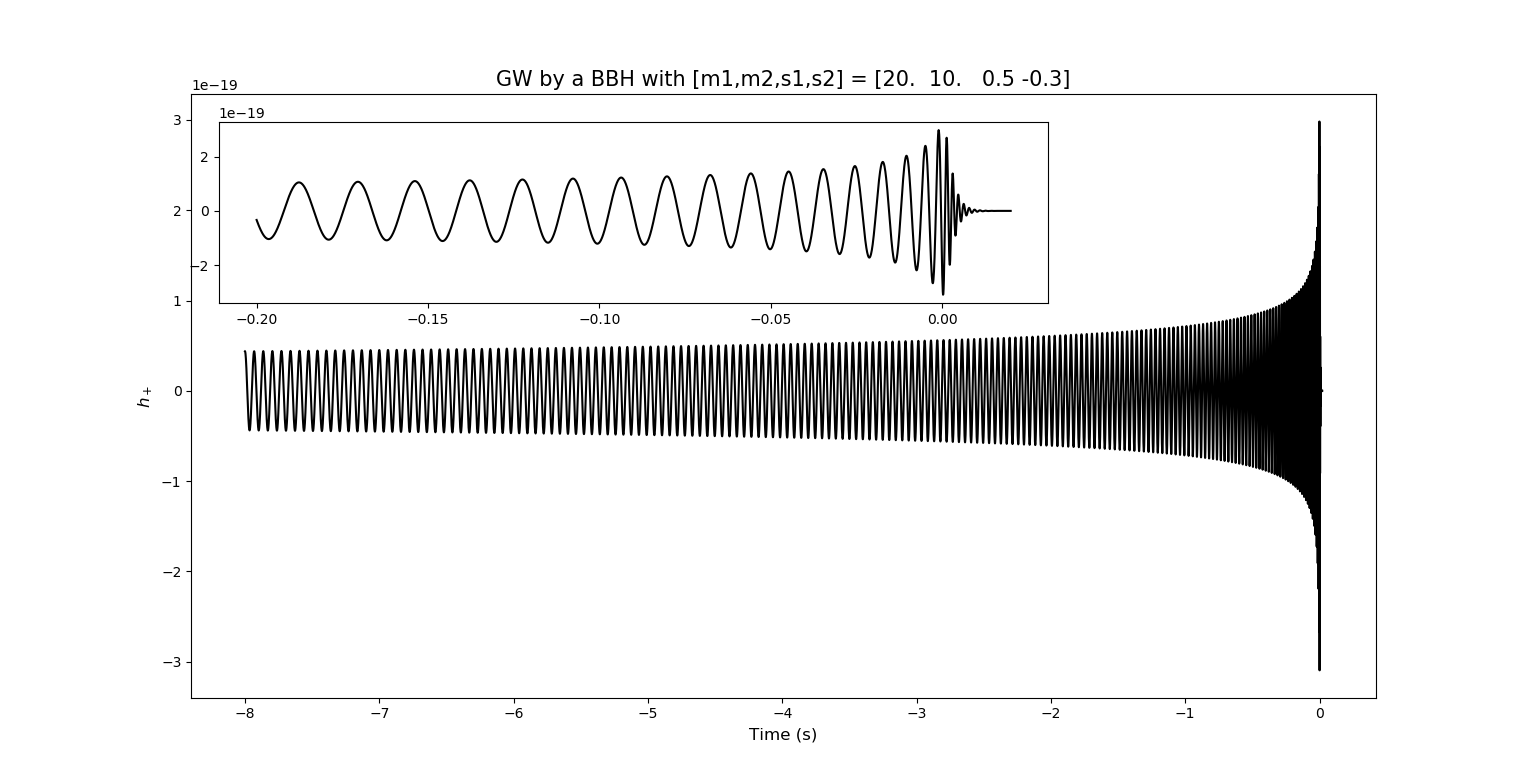
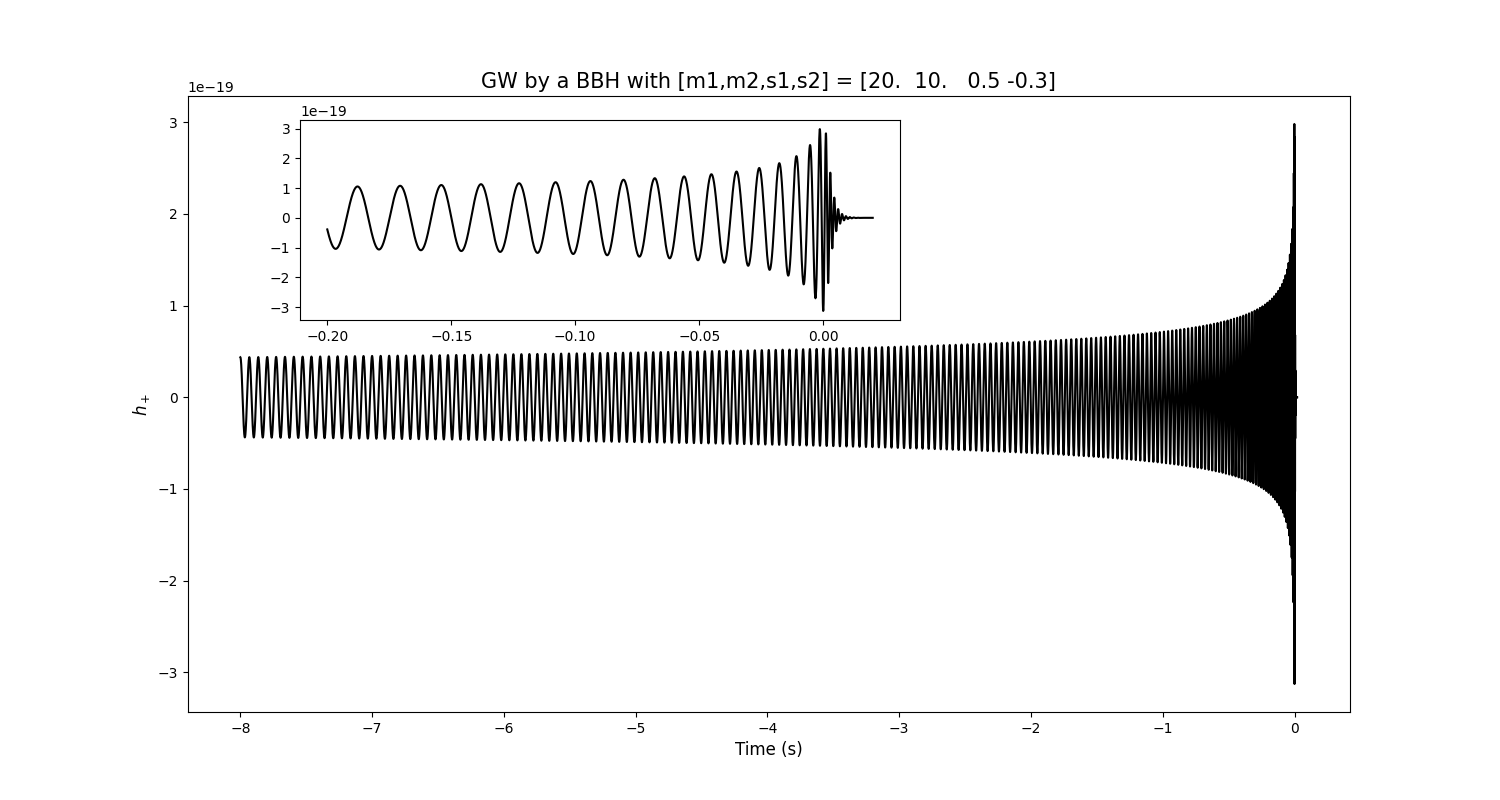
Update READMEs

diff --git a/examples/generate_WF.py b/examples/generate_WF.py
@@ -1,0 +1,20 @@
+import mlgw
+import numpy as np
+import matplotlib.pyplot as plt
+
+	#generating the wave
+gen = mlgw.GW_generator() #creating an istance of the generator (using default model)
+theta = np.array([20,10,0.5,-0.3]) #list of parameters to be given to generator [m1,m2,s1,s2]
+times = np.linspace(-8,0.02, 100000) #time grid: peak of 22 mode at t=0
+modes = [(2,2), (3,3), (4,4), (5,5)]
+h_p, h_c = gen.get_WF(theta, times, modes) #returns amplitude and phase of the wave
+
+	#plotting the wave
+fig = plt.figure(figsize=(15,8))
+plt.title("GW by a BBH with [m1,m2,s1,s2] = "+str(theta), fontsize = 15)
+plt.plot(times, h_p, c='k') #plot the plus polarization
+plt.xlabel("Time (s)", fontsize = 12)
+plt.ylabel(r"$h_+$", fontsize = 12)
+axins = fig.add_axes([0.2, 0.6, 0.4, 0.25])
+axins.plot(times[times >= -0.2], h_p[times >= -0.2], c='k')
+plt.show()

diff --git a/README.rst b/README.rst
@@ -16,30 +16,29 @@ MACHINE LEARNING MODEL FOR THE GRAVITATIONAL WAVES GENERATED BY BLACK-HOLE BINAR
 
 ``mlgw`` (Machine Learning Gravitational Waves) is a useful tool to quickly generate a GW waveform for a BBH coalescence. It is part of a Master thesis work at University of Pisa (Italy) under supervision of prof. Walter Del Pozzo.
 It implements a ML model which is able to reproduce waveforms of GWs generated by state-of-the-art models, with an aribitrary number of modes. It is quicker than standard methods and it has the same degree of accuracy.
-The older version of the model (which includes only the dominant 22 mode) is presented in this `paper <https://arxiv.org/abs/2011.01958>`_.
+The older version of the model (which includes only the dominant 22 mode) is presented in this `paper <https://arxiv.org/abs/2011.01958>`_. New latest version (v 3.0) is described in this other `paper <https://arxiv.org/abs/2402.06587>`_.
 
 To generate (and plot) a wave:
 ::
 
-	import mlgw.GW_generator as generator
+	import mlgw
 	import numpy as np
 	import matplotlib.pyplot as plt
-	from mpl_toolkits.axes_grid.inset_locator import (inset_axes, InsetPosition,mark_inset)
 
-	#generating the wave
-	gen = generator.GW_generator() #creating an istance of the generator (using default model)
+		#generating the wave
+	gen = mlgw.GW_generator() #creating an istance of the generator (using default model)
 	theta = np.array([20,10,0.5,-0.3]) #list of parameters to be given to generator [m1,m2,s1,s2]
 	times = np.linspace(-8,0.02, 100000) #time grid: peak of 22 mode at t=0
 	modes = [(2,2), (3,3), (4,4), (5,5)]
 	h_p, h_c = gen.get_WF(theta, times, modes) #returns amplitude and phase of the wave
 
-	#plotting the wave
-	plt.figure(figsize=(15,8))
+		#plotting the wave
+	fig = plt.figure(figsize=(15,8))
 	plt.title("GW by a BBH with [m1,m2,s1,s2] = "+str(theta), fontsize = 15)
 	plt.plot(times, h_p, c='k') #plot the plus polarization
 	plt.xlabel("Time (s)", fontsize = 12)
 	plt.ylabel(r"$h_+$", fontsize = 12)
-	axins = inset_axes(plt.gca(), width="70%", height="30%", loc=2, borderpad = 2.)
+	axins = fig.add_axes([0.2, 0.6, 0.4, 0.25])
 	axins.plot(times[times >= -0.2], h_p[times >= -0.2], c='k')
 	plt.show()
 
@@ -59,7 +58,7 @@ A PCA model is used to reduce dimensionality, through a linear transformation, o
 A Mixture of Experts model (MoE) is useful to map the orbital parameters of the black holes to the reduced representation of the wave. A prediction of MoE is a linear combination of regression models (the experts), weighted by the output of a gating function which decides which expert to use. The orbital parameters considered are mass ratio ``q=m1/m2`` and the two BHs z-component spins ``s1`` and ``s2``; the total mass ``m1+m2`` is a scale factor and the dependence on it must not be fitted.
 The experts performs a polynomial regression (using data augmentation in a basis function expansion). The terms in the polynomial are specified at training time.
 
-A complete model for a mode includes two PCA models for both phase and amplitude of the wave and a MoE model for each of the PC considered. The expert takes the form of a basis function regression and one can specify the features they want to use for their regression in the training and test data.
+A complete model for a mode includes two PCA models for both phase and amplitude of the wave and a neural network model for each of the PC considered. Optionally, a mixture of experts regression can be used (not advised due to its limited accuracy).
 
 A dataset of GWs must be created to fit the PCA model. It holds waves in time domain, generated in a fixed reduced grid ``t' = t/M_tot`` where M_tot is the total mass of the BBH.
 Each mode is time aligned sucht that the peak of the 22 mode is at ``t = 0``.
@@ -76,9 +75,10 @@ where m_i and s_i are BH masses and spins, d_L the luminosity distance from the 
 Package ``mlgw`` consists in five modules.
 
 * **GW_generator**: the module holds class ``mode_generator`` which builds up all the components for a fit for a single mode (i.e. PCA + regressions for each PC). Class ``GW_generator`` collects many istances of ``mode_generator`` and sum them together including the dependence on spherical harmonics.
-* **EM_MoE**: holds an implementation of a MoE model as well as the softmax classifier required for it
+* **NN_model**: utilities to instantiate, train and evaluate the NN model
 * **ML_routines**: holds an implementation of the PCA model as well a GDA classifier and a routine to do data augmentation
 * **GW_helper**: provides some routines to generate a dataset and to evaluate the closeness between waves. This is useful to assess model ability to reproduce original waves
+* **EM_MoE**: holds an implementation of a MoE model as well as the softmax classifier required for it (for the older versions of the package)
 * **fit_model**: provides some routines useful to fit the MoE + PCA model.
 
 Class ``GW_generator`` provides method ``get_WF`` to return the plus and cross polarization of the waveform. The orbital parameters must be specified. It accepts N data as ``(N,D) np.array``. The D features must have one of the following layout:
@@ -108,15 +108,16 @@ It requires ``numpy`` and ``scipy`` all available to PyPI.
 
 A number of tutorials are available to the interested user.
 
-* `generate_WF.py <https://raw.githubusercontent.com/stefanoschmidt1995/MLGW/master/mlgw_v2/generate_WF.py>`_: to generate the WF and using the model in its basic features.
-* `test_HM.py <https://raw.githubusercontent.com/stefanoschmidt1995/MLGW/master/mlgw_v2/test_HM.py>`_: to test the accuracy of the model. It requires a local installation of EOB model `TEOBResumS <https://arxiv.org/abs/1806.01772>`_ and it compares the ``mlgw`` results with those of ``TEOBResumS``.
-* `play_WF.py <https://raw.githubusercontent.com/stefanoschmidt1995/MLGW/master/mlgw_v2/play_WF.py>`_: an interactive plot to plot how a WF changes when the the masses, spins and geometrical variables change.
+* `generate_WF.py <https://raw.githubusercontent.com/stefanoschmidt1995/MLGW/master/examples/generate_WF.py>`_: to generate the WF and using the model in its basic features.
+* `play_WF.py <https://raw.githubusercontent.com/stefanoschmidt1995/MLGW/master/examples/play_WF.py>`_: an interactive plot to plot how a WF changes when the the masses, spins and geometrical variables change.
 
 A number of pre-fitted model are realeased together with the model. The available models can be listed with ``mlgw.GW_generator.list_models()``.
-However the user is welcome to fit their own model, using the module ``mlgw.fit_model``. To build a model, two steps are required:
+However the user is welcome to fit their own model, using the module ``mlgw.fit_model``. To build a model, several executables are available:
 
-* **Generating a dataset of WFs**: in this part a datset of WFs is created for each of the (l,m) mode to be included. The user here shall choose the range of orbital parameters to include within the dataset as well as the length in time of the WF. See `generate_dataset.py <https://raw.githubusercontent.com/stefanoschmidt1995/MLGW/master/mlgw_v2/generate_dataset.py>`_ for a practical guide on how to do it.
-* **Fitting the model on the dataset**: in this part, for each mode, a PCA model and a MoE model are fitted with the available data. Once the various ML models are properly gathered together, ``mlgw`` is raeady to be used. See `do_the_fit.py <https://raw.githubusercontent.com/stefanoschmidt1995/MLGW/master/mlgw_v2/do_the_fit.py>`_ for more information.
+* ``mlgw_generate_dataset``: to generate a dataset of waveforms
+* ``mlgw_fit_NN``: to train the neural network
+* ``mlgw_tune_NN``: to tune the neural network model and find the best architecture
+* ``mlgw_write_training_dag``: (very technical) helper to write a condor DAG file to train an ensemble of neural networks
 	
 The tutorials above are intended only to present a basic usage.
 For more advanced use or for more information, please refer to the code documentation: ::

diff --git a/ReadME.md b/ReadME.md
@@ -7,7 +7,7 @@ You can install the package with
 The model outputs the waveform when given the two BHs masses and spins. It implements also the dependence of the waveform on the spherical harmonics.
 
 Version 1 outputs only the 22 dominant mode. The model is presented in this [paper](https://journals.aps.org/prd/abstract/10.1103/PhysRevD.103.043020) (also online as [arXiv:2011.01958](https://arxiv.org/abs/2011.01958) ), where we present its details, we assess its accuracy and we employ it for analysing the whole GWTC-1, the first catalog of GW transients.
-Version 2 and 3 are suited to deal with an arbitrary numbers of modes and at the same time they keeps full compatibility with the previous version interface. Version 2 make use of the usual MoE regression, while version 3 implements a neural network regression.
+Version 2 and 3 are suited to deal with an arbitrary numbers of modes and at the same time they keeps full compatibility with the previous version interface. Version 2 make use of the usual MoE regression, while version 3 implements a neural network regression. Version 3 is presented in this [paper](https://arxiv.org/abs/2402.06587).
 
 To generate a WF:
 ```Python
@@ -135,7 +135,7 @@ and you are good to go!
 
 Two papers describing the methods and different versions of the model have been published:
 - S. Schmidt et al., Machine learning gravitational waves from binary black hole mergers ([link](https://journals.aps.org/prd/abstract/10.1103/PhysRevD.103.043020))
-- T. Grimbergen et al., Coming soon
+- T. Grimbergen et al., Generating Higher Order Modes from Binary Black Hole mergers with Machine Learning ([link](https://arxiv.org/abs/2402.06587))
 
 You can also read two thesis, which described version 1 and version 3 of the code respectively:
 
